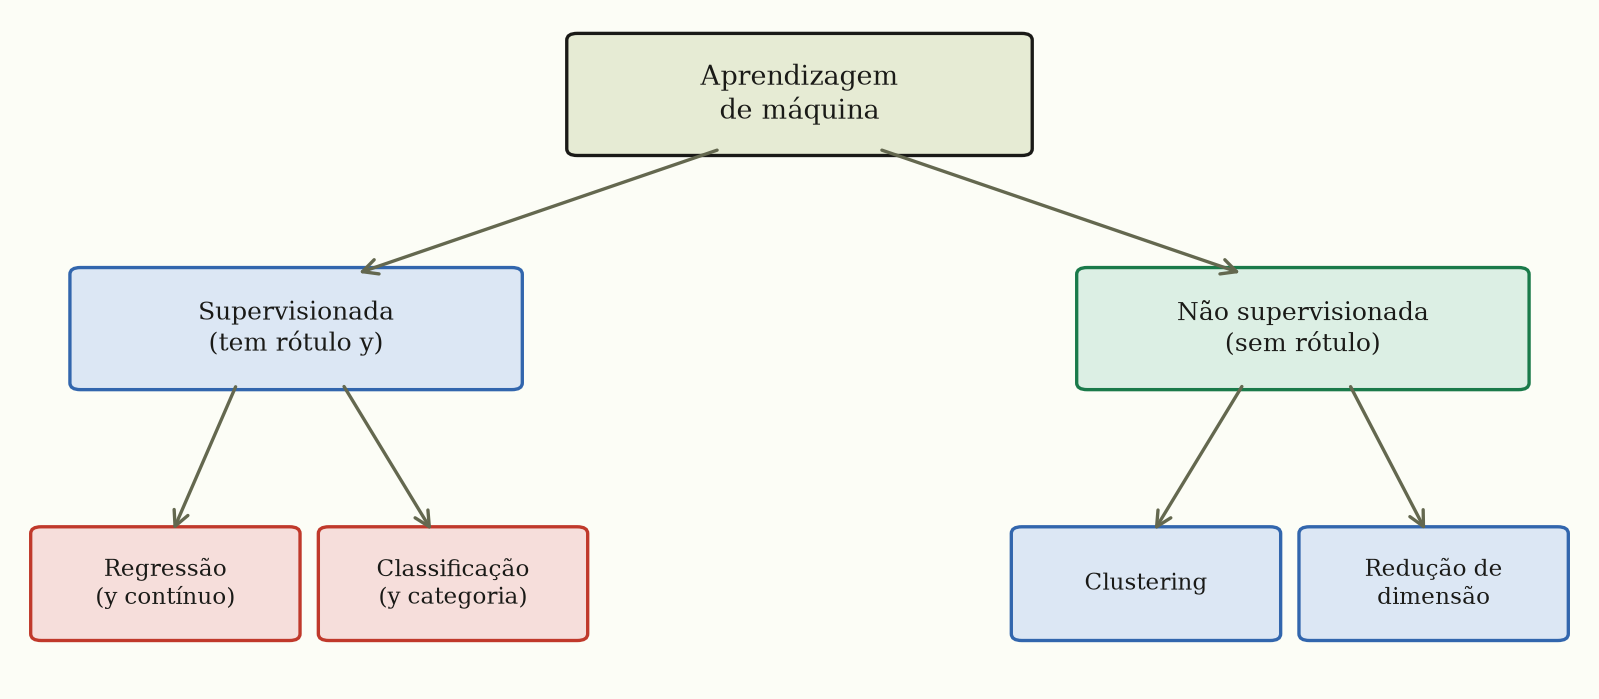
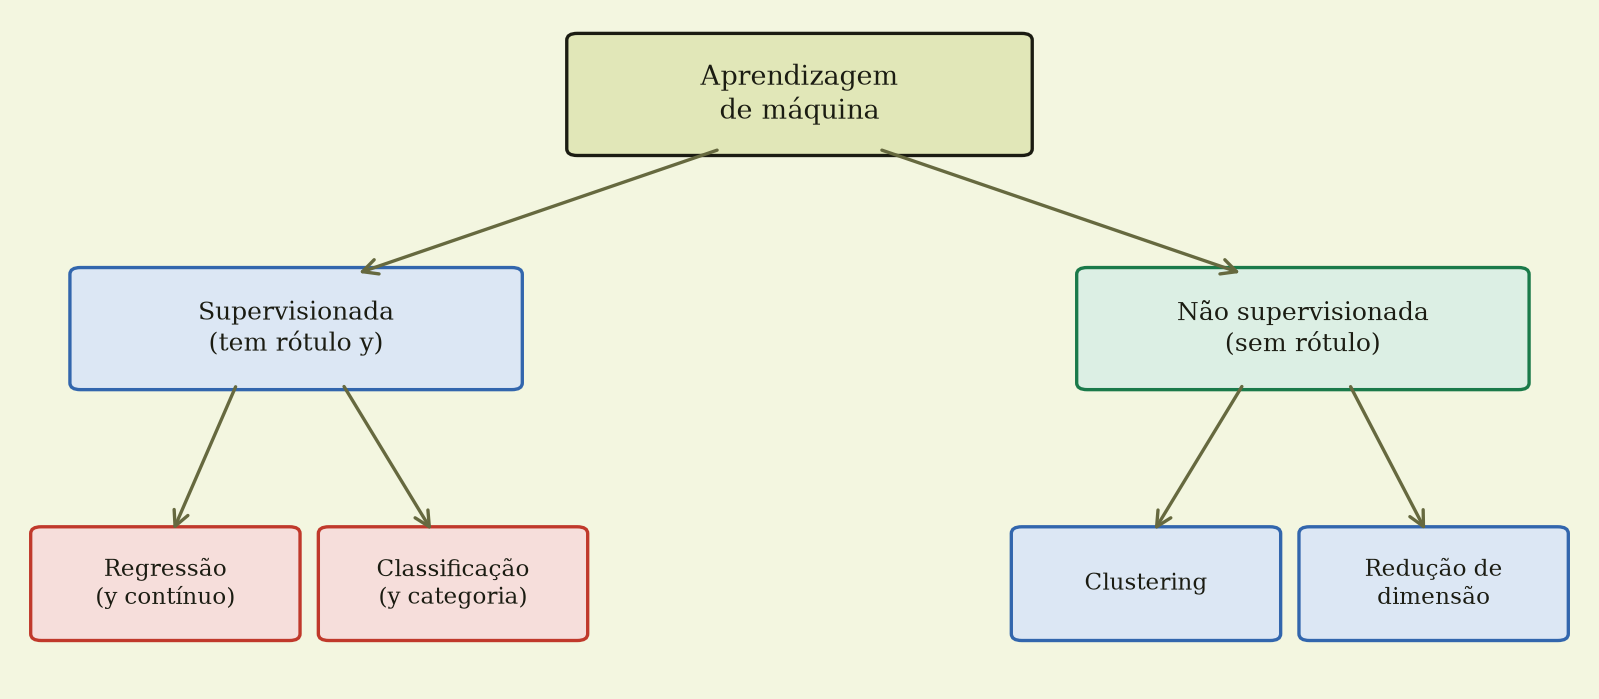
Ajusta a paleta para tom yellowgreen/split-pea mais encorpado
O verde anterior estava lavado/frio (sage). Puxa a matiz dos fundos
neutros para o amarelo-oliva e dá mais corpo (menos off-white, mais
"sopa de ervilha"), no claro e no escuro, mantendo o azul como acento.
Aplicado em style.css, widgets.js, slides (fundamentos + template) e
paleta matplotlib (figuras + notebooks). Regenerado tudo.

Claude-Session: https://claude.ai/code/session_01S8fyf7kcVcyGHjq9KvR8os

Changed region(s): [[0.3371, 0.03, 0.6435, 0.2403]]

diff --git a/assets/style.css b/assets/style.css
@@ -5,41 +5,41 @@
 *, *::before, *::after { box-sizing: border-box; margin: 0; padding: 0; }
 
 :root {
-  --bg: #eef1e0;
-  --paper: #fcfdf6;
-  --ink: #1a1a17;
-  --muted: #64684f;
-  --line: #d2d8bd;
-  --line-soft: #e0e5cd;
-  --accent: #1a1a17;
-  --sidebar-bg: #e9edd8;
-  --sidebar-hover: #e0e6c9;
-  --sidebar-active: #d8e0bb;
-  --nav-text: #42472f;
-  --prose-soft: #454a34;
-  --code-bg: #e3e8cf;
-  --th-bg: #e6ebd4;
-  --range-track: #bdc79f;
+  --bg: #e7ecc2;
+  --paper: #f3f6e0;
+  --ink: #1b1c12;
+  --muted: #66693f;
+  --line: #cbd598;
+  --line-soft: #dae1af;
+  --accent: #1b1c12;
+  --sidebar-bg: #dfe6b4;
+  --sidebar-hover: #d6dea6;
+  --sidebar-active: #ccd795;
+  --nav-text: #43492a;
+  --prose-soft: #464c2d;
+  --code-bg: #dce2b2;
+  --th-bg: #e1e7b8;
+  --range-track: #b4bf80;
   --link: #1f5fa6;
   --sidebar-w: 300px;
 }
 
 [data-theme="dark"] {
-  --bg: #14160f;
-  --paper: #1e211a;
-  --ink: #eaecdd;
-  --muted: #a2a888;
-  --line: #363b2c;
-  --line-soft: #292d20;
-  --accent: #eaecdd;
-  --sidebar-bg: #191c12;
-  --sidebar-hover: #262b18;
-  --sidebar-active: #2f351d;
-  --nav-text: #c6ccb2;
-  --prose-soft: #c1c7ad;
-  --code-bg: #2d3322;
-  --th-bg: #262b19;
-  --range-track: #464f38;
+  --bg: #14150c;
+  --paper: #1f2113;
+  --ink: #ebedd6;
+  --muted: #a4a87e;
+  --line: #383c26;
+  --line-soft: #2a2d1b;
+  --accent: #ebedd6;
+  --sidebar-bg: #191b0f;
+  --sidebar-hover: #272b16;
+  --sidebar-active: #31371b;
+  --nav-text: #c8ceac;
+  --prose-soft: #c3c9a4;
+  --code-bg: #2e331c;
+  --th-bg: #262b16;
+  --range-track: #474f30;
   --link: #6fa8dc;
 }
 
@@ -116,7 +116,7 @@ a { color: var(--ink); }
 .nav-group li a .n {
   font-family: 'Courier New', monospace;
   font-size: 0.72rem;
-  color: #929878;
+  color: #969a6f;
   margin-right: 0.5rem;
 }
 
@@ -180,7 +180,7 @@ a { color: var(--ink); }
 }
 .topic blockquote p:last-child { margin: 0; }
 .topic code { font-family: 'Courier New', monospace; background: var(--code-bg); padding: 1px 5px; border-radius: 3px; font-size: 0.88em; }
-.topic pre { background: #292c20; color: #eef1e0; border-radius: 6px; padding: 14px 16px; margin: 1rem 0; overflow-x: auto; font-size: 0.85rem; }
+.topic pre { background: #2a2c18; color: #e7ecc2; border-radius: 6px; padding: 14px 16px; margin: 1rem 0; overflow-x: auto; font-size: 0.85rem; }
 .topic pre code { background: transparent; padding: 0; color: inherit; }
 .topic table { border-collapse: collapse; margin: 1rem 0; font-size: 0.92rem; width: 100%; }
 .topic img { max-width: 100%; height: auto; display: block; margin: 1.25rem auto; border: 1px solid var(--line); border-radius: 6px; background: var(--paper); }
@@ -259,7 +259,7 @@ input[type=range]::-moz-range-thumb { width: 16px; height: 16px; border-radius: 
 .stat-card { background: var(--bg); border: 1px solid var(--line); border-radius: 4px; padding: 9px 11px; }
 .stat-card .slabel { font-size: 0.66rem; color: var(--muted); font-family: 'Courier New', monospace; text-transform: uppercase; letter-spacing: 0.05em; margin-bottom: 3px; }
 .stat-card .sval { font-size: 1.35rem; font-weight: bold; font-family: 'Courier New', monospace; }
-.stat-card .sdesc { font-size: 0.62rem; color: #9ba081; margin-top: 2px; line-height: 1.3; }
+.stat-card .sdesc { font-size: 0.62rem; color: #9ea06f; margin-top: 2px; line-height: 1.3; }
 
 .legend { display: flex; flex-wrap: wrap; gap: 14px; margin: 6px 0 14px; }
 .legend-item { display: flex; align-items: center; gap: 6px; font-size: 0.75rem; color: var(--muted); font-family: 'Courier New', monospace; }
@@ -277,7 +277,7 @@ input[type=range]::-moz-range-thumb { width: 16px; height: 16px; border-radius: 
 .card .cnum { font-family: 'Courier New', monospace; font-size: 0.72rem; color: var(--muted); }
 .card .ctitle { font-size: 1.15rem; font-weight: bold; margin: 0.4rem 0 0.5rem; }
 .card .cdesc { font-size: 0.85rem; color: var(--prose-soft); line-height: 1.5; }
-.card .ccount { font-family: 'Courier New', monospace; font-size: 0.72rem; color: #9ba081; margin-top: 0.75rem; }
+.card .ccount { font-family: 'Courier New', monospace; font-size: 0.72rem; color: #9ea06f; margin-top: 0.75rem; }
 
 /* ---------- Footer ---------- */
 .footer { border-top: 1px solid var(--line); margin: 3rem 2.5rem 0; padding: 1.5rem 0 2.5rem; display: flex; align-items: center; gap: 1.25rem; flex-wrap: wrap; }
@@ -321,11 +321,11 @@ input[type=range]::-moz-range-thumb { width: 16px; height: 16px; border-radius: 
 [data-theme="dark"] .theme-icon::before { content: "☀\FE0E"; }
 
 [data-theme="dark"] .topic details > summary:hover { color: #aecbed; }
-[data-theme="dark"] .topic pre { background: #0f110b; }
+[data-theme="dark"] .topic pre { background: #10110a; }
 
 /* logo do IBCCF (texto escuro) precisa de um fundo claro no tema escuro */
 [data-theme="dark"] .footer-logo {
-  background: #eef1e0;
+  background: #e7ecc2;
   padding: 6px 10px;
   border-radius: 6px;
 }

diff --git a/fundamentos_slides.html b/fundamentos_slides.html
@@ -10,19 +10,19 @@
 <style>
 /* ── Paleta ───────────────────────────────────────────────────────────────── */
 :root {
-  --bg:       #EEF1E0;   /* fundo do viewport       */
-  --paper:    #FCFDF6;   /* fundo dos slides        */
-  --ink:      #1A1A17;   /* texto principal         */
+  --bg:       #E7ECC2;   /* fundo do viewport       */
+  --paper:    #F3F6E0;   /* fundo dos slides        */
+  --ink:      #1B1C12;   /* texto principal         */
   --blue:     #3266AD;   /* cor primária            */
   --red:      #C0392B;   /* destaque vermelho       */
   --green:    #1A7A4A;   /* destaque verde          */
-  --muted:    #64684F;   /* texto secundário        */
-  --line:     #CFD7BB;   /* bordas                  */
+  --muted:    #66693F;   /* texto secundário        */
+  --line:     #CBD598;   /* bordas                  */
   --tint:     #ECF1F8;   /* fundo de caixas de dica */
   --blue-f:   #DCE7F4;   /* fill azul claro         */
   --red-f:    #F6DEDB;   /* fill vermelho claro     */
   --green-f:  #DCEFE4;   /* fill verde claro        */
-  --grey-f:   #E6EBD4;   /* fill cinza claro        */
+  --grey-f:   #E1E7B8;   /* fill cinza claro        */
   --orange-f: #FDEAD0;
   --purple-f: #E8DAEF;
   --yellow-f: #FCF3CF;
@@ -180,7 +180,7 @@
 .tbl { width: 100%; border-collapse: collapse; font-size: 16.5px; }
 .tbl th { background: var(--ink); color: var(--paper); padding: 8px 13px; font-weight: bold; text-align: left; font-family: 'Georgia', serif; }
 .tbl td { padding: 7px 13px; border-bottom: 1px solid var(--line); vertical-align: top; line-height: 1.35; }
-.tbl tr:nth-child(odd)  td { background: #E6EBD4; }
+.tbl tr:nth-child(odd)  td { background: #E1E7B8; }
 .tbl tr:nth-child(even) td { background: var(--paper); }
 .ok  { color: var(--green); font-weight: bold; }
 .no  { color: var(--red);   font-weight: bold; }

diff --git a/template_slides.html b/template_slides.html
@@ -10,19 +10,19 @@
 <style>
 /* ── Paleta ───────────────────────────────────────────────────────────────── */
 :root {
-  --bg:       #EEF1E0;   /* fundo do viewport       */
-  --paper:    #FCFDF6;   /* fundo dos slides        */
-  --ink:      #1A1A17;   /* texto principal         */
+  --bg:       #E7ECC2;   /* fundo do viewport       */
+  --paper:    #F3F6E0;   /* fundo dos slides        */
+  --ink:      #1B1C12;   /* texto principal         */
   --blue:     #3266AD;   /* cor primária            */
   --red:      #C0392B;   /* destaque vermelho       */
   --green:    #1A7A4A;   /* destaque verde          */
-  --muted:    #64684F;   /* texto secundário        */
-  --line:     #CFD7BB;   /* bordas                  */
+  --muted:    #66693F;   /* texto secundário        */
+  --line:     #CBD598;   /* bordas                  */
   --tint:     #ECF1F8;   /* fundo de caixas de dica */
   --blue-f:   #DCE7F4;   /* fill azul claro         */
   --red-f:    #F6DEDB;   /* fill vermelho claro     */
   --green-f:  #DCEFE4;   /* fill verde claro        */
-  --grey-f:   #E6EBD4;   /* fill cinza claro        */
+  --grey-f:   #E1E7B8;   /* fill cinza claro        */
   --orange-f: #FDEAD0;
   --purple-f: #E8DAEF;
   --yellow-f: #FCF3CF;
@@ -183,7 +183,7 @@
 .tbl { width: 100%; border-collapse: collapse; font-size: 16.5px; }
 .tbl th { background: var(--ink); color: var(--paper); padding: 8px 13px; font-weight: bold; text-align: left; font-family: 'Georgia', serif; }
 .tbl td { padding: 7px 13px; border-bottom: 1px solid var(--line); vertical-align: top; line-height: 1.35; }
-.tbl tr:nth-child(odd)  td { background: #E6EBD4; }
+.tbl tr:nth-child(odd)  td { background: #E1E7B8; }
 .tbl tr:nth-child(even) td { background: var(--paper); }
 .ok  { color: var(--green); font-weight: bold; }
 .no  { color: var(--red);   font-weight: bold; }

diff --git a/assets/widgets.js b/assets/widgets.js
@@ -23,8 +23,8 @@ function rngNormal(rng) {
 
 // ---------- paleta (idêntica ao style.css) ----------
 const PAL = {
-  ink: '#1a1a17', blue: '#3266ad', red: '#c0392b', green: '#1a7a4a',
-  muted: '#64684f', line: '#cfd7bb', paper: '#fcfdf6',
+  ink: '#1b1c12', blue: '#3266ad', red: '#c0392b', green: '#1a7a4a',
+  muted: '#66693f', line: '#cbd598', paper: '#f3f6e0',
   blueF: '#dce7f4', redF: '#f6dedb', greenF: '#dcefe4'
 };
 // no tema escuro, texto/eixos precisam clarear
@@ -32,10 +32,10 @@ function pal() {
   const dark = document.documentElement.getAttribute('data-theme') === 'dark';
   return {
     ...PAL,
-    ink: dark ? '#eaecdd' : PAL.ink,
-    muted: dark ? '#a2a888' : PAL.muted,
-    line: dark ? '#464f38' : PAL.line,
-    paper: dark ? '#1e211a' : PAL.paper,
+    ink: dark ? '#ebedd6' : PAL.ink,
+    muted: dark ? '#a4a87e' : PAL.muted,
+    line: dark ? '#474f30' : PAL.line,
+    paper: dark ? '#1f2113' : PAL.paper,
   };
 }
 

diff --git a/tools/gerar_figuras.py b/tools/gerar_figuras.py
@@ -21,23 +21,23 @@ from pathlib import Path
 BASE = Path(__file__).parent.parent
 
 # ── Paleta ───────────────────────────────────────────────────────────────────
-INK    = "#1a1a17"
-PAPER  = "#fcfdf6"
+INK    = "#1b1c12"
+PAPER  = "#f3f6e0"
 BLUE   = "#3266ad"
 RED    = "#c0392b"
 GREEN  = "#1a7a4a"
-MUTED  = "#64684f"
+MUTED  = "#66693f"
 BLUEF  = "#dce7f4"
 REDF   = "#f6dedb"
 GREENF = "#dcefe4"
-GREYF  = "#e6ebd4"
+GREYF  = "#e1e7b8"
 
 plt.rcParams.update({
     "font.family": "serif", "font.size": 18,
-    "axes.edgecolor": "#b3bd95", "axes.linewidth": 1.2,
+    "axes.edgecolor": "#adb87f", "axes.linewidth": 1.2,
     "axes.titlesize": 20, "figure.facecolor": PAPER,
     "axes.facecolor": PAPER, "savefig.facecolor": PAPER,
-    "axes.grid": True, "grid.color": "#dde3c9", "grid.linewidth": 0.7,
+    "axes.grid": True, "grid.color": "#d7deb2", "grid.linewidth": 0.7,
     "xtick.color": MUTED, "ytick.color": MUTED,
     "axes.labelcolor": INK, "text.color": INK,
     "legend.fontsize": 17, "axes.labelsize": 18,

diff --git a/tools/gerar_notebooks.py b/tools/gerar_notebooks.py
@@ -23,14 +23,14 @@ import pandas as pd
 import matplotlib.pyplot as plt
 
 # Paleta do curso (idêntica ao site)
-INK, PAPER = "#1a1a17", "#fcfdf6"
-BLUE, RED, GREEN, MUTED = "#3266ad", "#c0392b", "#1a7a4a", "#64684f"
+INK, PAPER = "#1b1c12", "#f3f6e0"
+BLUE, RED, GREEN, MUTED = "#3266ad", "#c0392b", "#1a7a4a", "#66693f"
 
 plt.rcParams.update({
     "font.family": "serif", "font.size": 12,
     "figure.facecolor": PAPER, "axes.facecolor": PAPER,
-    "axes.edgecolor": "#b3bd95", "axes.grid": True,
-    "grid.color": "#dde3c9", "grid.linewidth": 0.7,
+    "axes.edgecolor": "#adb87f", "axes.grid": True,
+    "grid.color": "#d7deb2", "grid.linewidth": 0.7,
     "axes.labelcolor": INK, "text.color": INK,
     "xtick.color": MUTED, "ytick.color": MUTED,
 })
